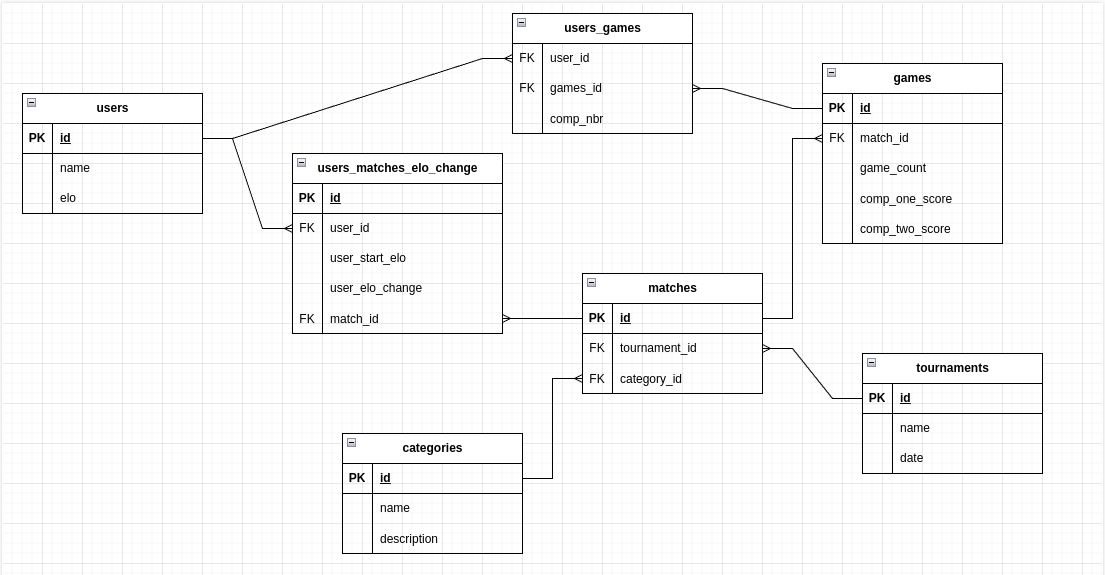
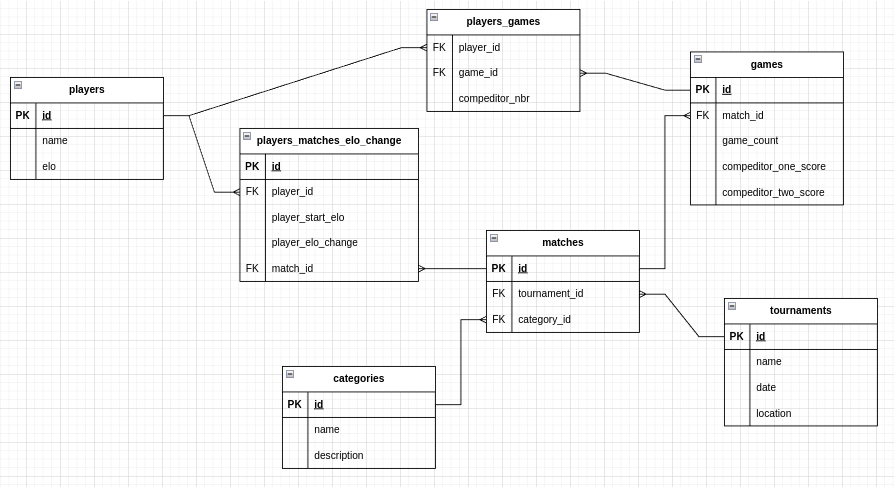
player and user variable naming fixed, matches and games variables naming fixed

diff --git a/src/BSC/Database/db.py b/src/BSC/Database/db.py
@@ -122,28 +122,28 @@ class DB():
         result = None
         con = sqlite3.connect(self.db_name)
         cur = con.cursor()
-        res = cur.execute("SELECT * FROM users WHERE name = '" + name +"'")
+        res = cur.execute("SELECT * FROM players WHERE name = '" + name +"'")
         result = res.fetchone() #note to self, fetchone removes the content form the result variable res, likely same with fetchall
         if result is None:
             if self.verbose: print(f"INFO --- DB:GetPlayer --- player name not found in db, creating a new entry with base ELO: 1000")
             data = (name, 1000) #TODO initial elo value of 1000 should be some configuration file, and maybe even modifiable based on what leage new player starts in.
-            res = cur.execute("INSERT INTO users (name, elo) VALUES (?,?)", data)
+            res = cur.execute("INSERT INTO players (name, elo) VALUES (?,?)", data)
             con.commit()
-            res = cur.execute("SELECT * FROM users WHERE name = '" + name +"'")
+            res = cur.execute("SELECT * FROM players WHERE name = '" + name +"'")
             result = res.fetchone()
         con.close()
         if self.verbose: print(f"INFO --- DB:GetPlayer --- returning db player entry: '{result}'")
         return result
 
-    def GetPlayerELO(self, user_id):
-        if self.verbose: print(f"INFO --- DB:GetPlayerELO --- getting ELO value for player id: '{user_id}'")
+    def GetPlayerELO(self, player_id):
+        if self.verbose: print(f"INFO --- DB:GetPlayerELO --- getting ELO value for player id: '{player_id}'")
         con = sqlite3.connect(self.db_name)
         cur = con.cursor()
-        res = cur.execute("SELECT elo FROM users WHERE id = '" + user_id +"'")
-        user_elo = res.fetchone()[0]
+        res = cur.execute("SELECT elo FROM players WHERE id = '" + player_id +"'")
+        player_elo = res.fetchone()[0]
         con.close()
-        if self.verbose: print(f"INFO --- DB:GetPlayerELO --- returning ELO value: '{user_elo}'")
-        return user_elo
+        if self.verbose: print(f"INFO --- DB:GetPlayerELO --- returning ELO value: '{player_elo}'")
+        return player_elo
 
     def AddMatch(self, data_in):
         if self.verbose: print(f"INFO --- DB:AddMatch --- adding match to DB with data: '{data_in}'")
@@ -161,7 +161,7 @@ class DB():
         if self.verbose: print(f"INFO --- DB:AddGame --- adding game to DB with data: '{data_in}'")
         con = sqlite3.connect(self.db_name)
         cur = con.cursor()
-        cur.execute("INSERT INTO games (match_id, game_count, player_one_score, player_two_score) VALUES(?,?,?,?)", data_in)
+        cur.execute("INSERT INTO games (match_id, game_count, compeditor_one_score, compeditor_two_score) VALUES(?,?,?,?)", data_in)
         con.commit()
         res = cur.execute("SELECT id FROM games ORDER BY id DESC LIMIT 1")
         game_id = res.fetchone()[0]
@@ -173,7 +173,7 @@ class DB():
         if self.verbose: print(f"INFO --- DB:AddPlayerGameRel --- adding player game relation for the whole match for all players with data: '{data_in_list}'")
         con = sqlite3.connect(self.db_name)
         cur = con.cursor()
-        cur.executemany("INSERT INTO users_games (users_id, games_id, comp_nbr) VALUES(?,?,?)", data_in_list)
+        cur.executemany("INSERT INTO players_games (player_id, game_id, compeditor_nbr) VALUES(?,?,?)", data_in_list)
         con.commit()
         con.close()
 
@@ -182,35 +182,35 @@ class DB():
             if self.verbose: print(f"INFO --- DB:AddPlayerMatchRel_W_ELOUpdate:addPlayerMatchRel --- adding player match relation to DB with ELO data: '{data_in}'")
             con = sqlite3.connect(self.db_name)
             cur = con.cursor()
-            cur.executemany("INSERT INTO users_matches_elo_change (users_id, matches_id, user_start_elo, user_elo_change) VALUES(?,?,?,?)", data_in)
+            cur.executemany("INSERT INTO players_matches_elo_change (player_id, match_id, player_start_elo, player_elo_change) VALUES(?,?,?,?)", data_in)
             con.commit()
             con.close()
 
-        def updateUsersELO(data_in):
-            if self.verbose: print(f"INFO --- DB:AddPlayerMatchRel_W_ELOUpdate:updateUsersELO --- updating users ELO value with following data: '{data_in}'")
+        def updatePlayersELO(data_in):
+            if self.verbose: print(f"INFO --- DB:AddPlayerMatchRel_W_ELOUpdate:updatePlayersELO --- updating player ELO value with following data: '{data_in}'")
             con = sqlite3.connect(self.db_name)
             cur = con.cursor()
-            cur.executemany("UPDATE users SET elo = ? WHERE id = ?", data_in)
+            cur.executemany("UPDATE players SET elo = ? WHERE id = ?", data_in)
             con.commit()
             con.close()
 
-        data_in_list_for_users_ELO_update = []
+        data_in_list_for_players_ELO_update = []
         for data_in in data_in_list:
-            user_id = data_in[0]
+            player_id = data_in[0]
             new_ELO = data_in[2] + data_in[3]
-            data_in_list_for_users_ELO_update.append((new_ELO, user_id,))
+            data_in_list_for_players_ELO_update.append((new_ELO, player_id,))
 
         addPlayerMatchRel(data_in_list)
-        updateUsersELO(data_in_list_for_users_ELO_update)
+        updatePlayersELO(data_in_list_for_players_ELO_update)
 
 
     #============================================
     # results reports printing to terminal
     #============================================
 
-    def report_AllUsersELOrank(self):
+    def report_AllPlayersELOrank(self):
         print("\nFull list of players and their ELO ranked from highest to lowest rank:")
-        query = "SELECT name, elo FROM users ORDER BY elo DESC"
+        query = "SELECT name, elo FROM players ORDER BY elo DESC"
         con = sqlite3.connect(self.db_name)
         cur = con.cursor()
         res = cur.execute(query)
@@ -226,17 +226,17 @@ class DB():
         print(f"\nEnd statistics and final ELO ranking from tournament: '{res.fetchone()[0]}'")
         query = """SELECT DISTINCT u.name, u.elo, statistics.nbr_matches, statistics.victories
 FROM matches m
-JOIN users_matches_elo_change um ON m.id = um.matches_id
-JOIN users u ON u.id = um.users_id
+JOIN players_matches_elo_change um ON m.id = um.match_id
+JOIN players u ON u.id = um.player_id
 JOIN (
 SELECT
 u.id,
 u.name,
 count(g.id) as nbr_matches,
-SUM(IIF(CASE ug.comp_nbr WHEN '1' THEN g.player_one_score ELSE g.player_two_score END > CASE ug.comp_nbr WHEN '1' THEN g.player_two_score ELSE g.player_one_score END, 1, 0)) victories
-FROM users u
-JOIN users_games ug ON u.id = ug.users_id
-JOIN games g ON ug.games_id = g.id
+SUM(IIF(CASE ug.compeditor_nbr WHEN '1' THEN g.compeditor_one_score ELSE g.compeditor_two_score END > CASE ug.compeditor_nbr WHEN '1' THEN g.compeditor_two_score ELSE g.compeditor_one_score END, 1, 0)) victories
+FROM players u
+JOIN players_games ug ON u.id = ug.player_id
+JOIN games g ON ug.game_id = g.id
 JOIN matches m ON m.id = g.match_id
 WHERE m.tournament_id = """ + str(tournament_id) + """ group by u.name
 ) statistics ON statistics.id = u.id

diff --git a/src/BSC/GameHandler/handler.py b/src/BSC/GameHandler/handler.py
@@ -10,23 +10,22 @@ class Handler():
         self.verbose = verbose
         self.database_obj = database_obj
 
-    def runGamesParser(self, raw_games_list, tournament_id, category_id):
-        converted_all_matches_list = [] #same list of games list of dictionaries but content will be Teams objects that have set of player db_id-s
+    def runGamesParser(self, raw_matches_list, tournament_id, category_id):
+        converted_all_matches_list = [] #same list of matches list of dictionaries but content will be Teams objects that have set of player db_id-s
 
         players_obj_dict_in_tournament = {} #for not repeat checks of players in tournament. strcutre: 'db_id: player_obj'
-        if self.verbose: print(f"INFO --- All games list for parsing: '{raw_games_list}'")
-        if self.verbose: print(f"INFO --- Total nr of games to parse: '{len(raw_games_list)}'")
+        if self.verbose: print(f"INFO --- All matches list for parsing: '{raw_matches_list}'")
+        if self.verbose: print(f"INFO --- Total nr of matches to parse: '{len(raw_matches_list)}'")
         i = 0
-        for game in raw_games_list:
+        for match in raw_matches_list:
             i = i + 1
-            new_game_dict = {}
-            if self.verbose: print(f"INFO --- Game nr: '{i}' --- Parsing raw game dictionary: '{game}'")
-            new_game_dict_wObjects = {} #same kind of dictionary structure but Teams instead of being just a string is a Team object that consists of Player db_id in a set() data type
-            for team, score in game.items():
+            new_match_dict = {}
+            if self.verbose: print(f"INFO --- Match nr: '{i}' --- Parsing raw match dictionary: '{match}'")
+            for team, score in match.items():
                 if self.verbose: print(f"INFO --- working on team: '{team}' that got '{score}' points")
                 player_obj_list_for_team = []
                 if "+" in team:
-                    if self.verbose: print(f"DEBUG --- Detected '+' in the name, this is a team game and we need to split the players from the full team name")
+                    if self.verbose: print(f"DEBUG --- Detected '+' in the name, this is a team match and we need to split the players from the full team name")
                     player_str_list = team.split("+")
                     for player in player_str_list:
                         #TODO content of this for loop likely can be separate function since this should be reusable for single player tournaments
@@ -50,22 +49,22 @@ class Handler():
                 #if self.verbose: print(f"INFO --- creating new Team object with players: '{player_obj_list_for_team}'") #TODO fix printing problem
                 team_obj = Team(player_obj_list_for_team)
                 if self.verbose: print(f"INFO --- Team object: '{team_obj}' created")
-                new_game_dict[team_obj] = score
+                new_match_dict[team_obj] = score
 
-            if self.verbose: print(f"INFO --- adding new game dictionary to converted games list")
-            converted_all_matches_list.append(new_game_dict)
+            if self.verbose: print(f"INFO --- adding new match dictionary to converted matches list")
+            converted_all_matches_list.append(new_match_dict)
 
-        if self.verbose: print(f"INFO --- all games are parsed, function midpoint before skill calculation and rest of DB entries")
+        if self.verbose: print(f"INFO --- all matches are parsed, function midpoint before skill calculation and rest of DB entries")
         if self.verbose:
             print(f"INFO --- list of players in the tournament:")
             for p_id, p_obj in players_obj_dict_in_tournament.items():
                 print(f"INFO --- player db id: '{p_id}', name: '{p_obj.player_name}', and ELO: '{p_obj.ELO}'")
             print(f"INFO --- list of converted games in the tournament with teams and scores:")
             i = 0
-            for game in converted_all_matches_list:
+            for match in converted_all_matches_list:
                 i = i + 1
-                print(f"INFO --- game number: '{i}'")
-                for team, score in game.items():
+                print(f"INFO --- match number: '{i}'")
+                for team, score in match.items():
                     print(f"INFO --- team: '{team}' with score: '{score}'")
 
         print(f"Running ELO calculations...")
@@ -80,7 +79,7 @@ class Handler():
             game_data_to_db = (match_id, game_nbr, list(match.values())[0], list(match.values())[1],)
             game_id = self.database_obj.AddGame(game_data_to_db)
 
-            #TODO analyze if players would be iterated over for the whole game so varaibles would not be needed
+            #TODO analyze if players would be iterated over for the whole match so varaibles would not be needed
             t_one_p_one_id = list(list(match.keys())[0].team_members_set)[0]
             t_one_p_two_id = list(list(match.keys())[0].team_members_set)[1]
             t_two_p_one_id = list(list(match.keys())[1].team_members_set)[0]

diff --git a/src/main.py b/src/main.py
@@ -49,13 +49,14 @@ class Main():
         self.database_obj = DB(db_name, verbose=self.verbose, clear_db=True)
 
         if self.verbose: print(f"Executing test run from file {self.test_data_txt}")
-        raw_games_list, tournament_name, tournament_category_name, tournament_category_description = getGamesFromTXT(self.test_data_txt)
+        raw_matches_list, tournament_name, tournament_category_name, tournament_category_description = getGamesFromTXT(self.test_data_txt)
         tournament_id = self.database_obj.AddTournament((tournament_name,))
         category_id = self.database_obj.GetOrAddCategory(tournament_category_name, tournament_category_description)
-        if self.verbose: print(f"All games from raw games list:\n{raw_games_list}")
-        gamesHandler = Handler(raw_games_list, self.database_obj, tournament_id, category_id, self.verbose)
+        if self.verbose: print(f"All matches from raw matches list:\n{raw_matches_list}")
+        gamesHandler = Handler(self.database_obj, self.verbose)
+        gamesHandler.runGamesParser(raw_matches_list, tournament_id, category_id)
         self.database_obj.report_TournamentResult(tournament_id)
-        self.database_obj.report_AllUsersELOrank()
+        self.database_obj.report_AllPlayersELOrank()
         self.__exitSuccess("\n=====================\nDone")
 
     # actual execution with data provided through launch arguments
@@ -73,19 +74,19 @@ class Main():
         raw_tournaments_from_excel = self.__getGamesFromExcel(excel_file, sheets_list)
         gamesHandler = Handler(self.database_obj, self.verbose)
 
-        for tournament_name, raw_games_list_from_excel in raw_tournaments_from_excel.items():
+        for tournament_name, raw_matches_list_from_excel in raw_tournaments_from_excel.items():
             print(f"\nStarting handle tournament: '{tournament_name}' information...")
             if self.verbose: print(f"INFO --- Adding tournament: '{tournament_name}' to the database")
             tournament_id = self.database_obj.AddTournament((tournament_name,))
             if self.verbose: print(f"INFO --- Getting or adding new category to the database")
             category_id = self.database_obj.GetOrAddCategory("TMMD", "TEST madminton category") #TODO figure out a best way to enter a custom category
             print(f"Running games handler functionality...")
-            gamesHandler.runGamesParser(raw_games_list_from_excel, tournament_id, category_id)
-            if self.verbose: print(f"Post game data entry status report")
+            gamesHandler.runGamesParser(raw_matches_list_from_excel, tournament_id, category_id)
+            if self.verbose: print(f"Post matches data entry status report")
             self.database_obj.report_TournamentResult(tournament_id)
 
         if self.verbose: print(f"Final reports")
-        self.database_obj.report_AllUsersELOrank()
+        self.database_obj.report_AllPlayersELOrank()
         self.__exitSuccess("\n=====================\nDone")
 
     def __getGamesFromExcel(self, excel_file, list_of_sheets):

diff --git a/src/BSC/Database/sql_v02_001.py b/src/BSC/Database/sql_v02_001.py
@@ -3,9 +3,10 @@ db_up = {
 	"id"	INTEGER NOT NULL UNIQUE,
 	"name"	TEXT NOT NULL,
 	"date"	TEXT,
+	"location"	TEXT,
 	PRIMARY KEY("id" AUTOINCREMENT)
 )""",
-"users": """CREATE TABLE "users" (
+"players": """CREATE TABLE "players" (
 	"id"	INTEGER NOT NULL UNIQUE,
 	"name"	TEXT NOT NULL,
 	"elo"	INTEGER NOT NULL,
@@ -29,32 +30,32 @@ db_up = {
 	"id"	INTEGER NOT NULL UNIQUE,
 	"match_id"	INTEGER NOT NULL,
 	"game_count"	INTEGER NOT NULL,
-	"player_one_score"	INTEGER NOT NULL,
-	"player_two_score"	INTEGER NOT NULL,
+	"compeditor_one_score"	INTEGER NOT NULL,
+	"compeditor_two_score"	INTEGER NOT NULL,
 	FOREIGN KEY("match_id") REFERENCES "matches"("id"),
 	PRIMARY KEY("id" AUTOINCREMENT)
 )""",
-"users_games": """CREATE TABLE "users_games" (
-	"users_id"	INTEGER NOT NULL,
-	"games_id"	INTEGER NOT NULL,
-	"comp_nbr"	INTEGER NOT NULL,
-	UNIQUE("users_id","games_id")
+"players_games": """CREATE TABLE "players_games" (
+	"player_id"	INTEGER NOT NULL,
+	"game_id"	INTEGER NOT NULL,
+	"compeditor_nbr"	INTEGER NOT NULL,
+	UNIQUE("player_id","game_id")
 )""",
-"users_matches_elo_change": """CREATE TABLE "users_matches_elo_change" (
-	"users_id"	INTEGER NOT NULL,
-	"matches_id"	INTEGER NOT NULL,
-	"user_start_elo"	INTEGER NOT NULL,
-	"user_elo_change"	INTEGER NOT NULL,
-	UNIQUE("users_id","matches_id")
+"players_matches_elo_change": """CREATE TABLE "players_matches_elo_change" (
+	"player_id"	INTEGER NOT NULL,
+	"match_id"	INTEGER NOT NULL,
+	"player_start_elo"	INTEGER NOT NULL,
+	"player_elo_change"	INTEGER NOT NULL,
+	UNIQUE("player_id","match_id")
 )"""
 }
 
 db_down = {
 "tournaments": """DROP TABLE tournaments""",
-"users": """DROP TABLE users""",
+"players": """DROP TABLE players""",
 "categories": """DROP TABLE categories""",
 "matches": """DROP TABLE matches""",
 "games": """DROP TABLE games""",
-"users_games": """DROP TABLE users_games""",
-"users_matches_elo_change": """DROP TABLE users_matches_elo_change"""
+"players_games": """DROP TABLE players_games""",
+"players_matches_elo_change": """DROP TABLE players_matches_elo_change"""
 }

diff --git a/src/BSC/SkillCalculator/skillCalculator.py b/src/BSC/SkillCalculator/skillCalculator.py
@@ -1,7 +1,7 @@
 class SkillCalc():
     def __init__(self, players_obj_dict, verbose=False):
         self.verbose = verbose #TODO extend verbose information to stuff that might be relevant
-        self.k_factor = 32 #TODO there should be 2 K-Factor variables, one for winner and one loser. when we have implemented ELO confidence value. example high ELO user will not lose a lot of points if new team with base/low ELO beats them
+        self.k_factor = 32 #TODO there should be 2 K-Factor variables, one for winner and one loser. when we have implemented ELO confidence value. example high ELO player will not lose a lot of points if new team with base/low ELO beats them
         self.players_obj_dict = players_obj_dict
 
     def calculate(self, match):

diff --git a/README.md b/README.md
@@ -66,12 +66,10 @@ List is not just code improvements but also project functionalities
 
 - Various minor improvements in codes marked with TODO.
 - Extract details from Tournament name and store them in DB.
-- Store data of scanned tournaments in DB and keep track of ELO over time without having to reimport and calculate all data over again.
-- Mixed naming usage of user/player needs to be all migrated to use player.
-- Fix variable naming clarity in Game Handler for games and matches to represent the correct data being worked with.
-- Add ELO confidence value and use it to handle ELO gain/loss.
 - Handle players ranks through different competiontion categories.
-- Tournament results statistics report users games count, this has to change when matches consist of multiple games
+- Find a good method for adding custom categories.
+- Add ELO confidence value and use it to handle ELO gain/loss.
+- Tournament results statistics report users games count. Further change in the future since this has to change when matches consist of multiple games.
 - Rework how commands are built and handled.
 
 ### Far Future
@@ -103,6 +101,12 @@ For help information run command: `python3 main.py -h`
 NOTE: the namings currently don't match and there is development taks to align all user/player naming convention
 
 ## Change Log
+
+### Alpha 1
+
+- user to player variable naming fixed
+- various game and match variable naming convetion fixed
+- fixed test execution workflow to use GameHandler package correctly
 
 ### Prototype v3
 
